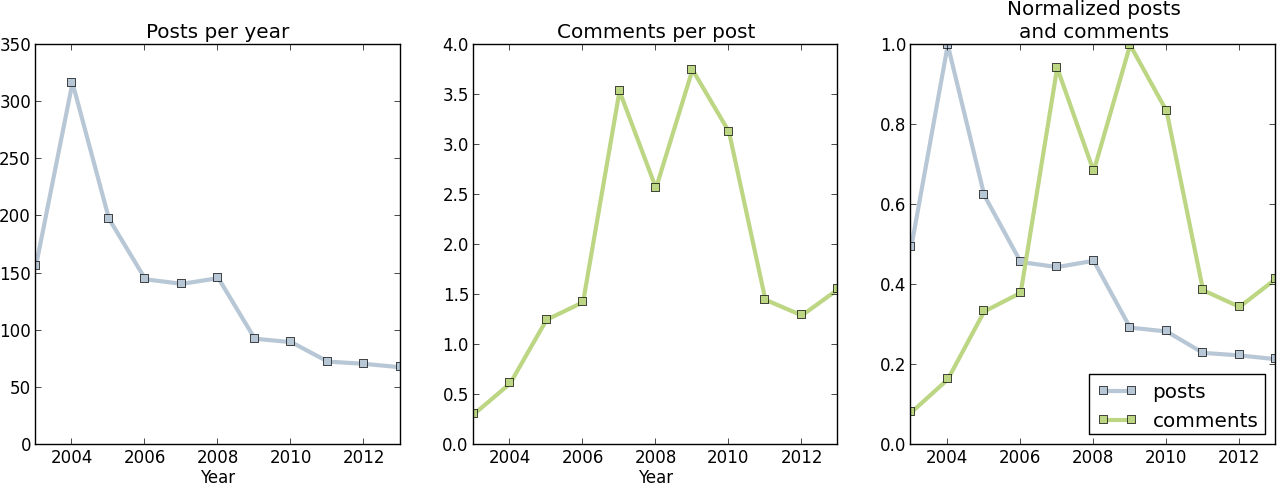
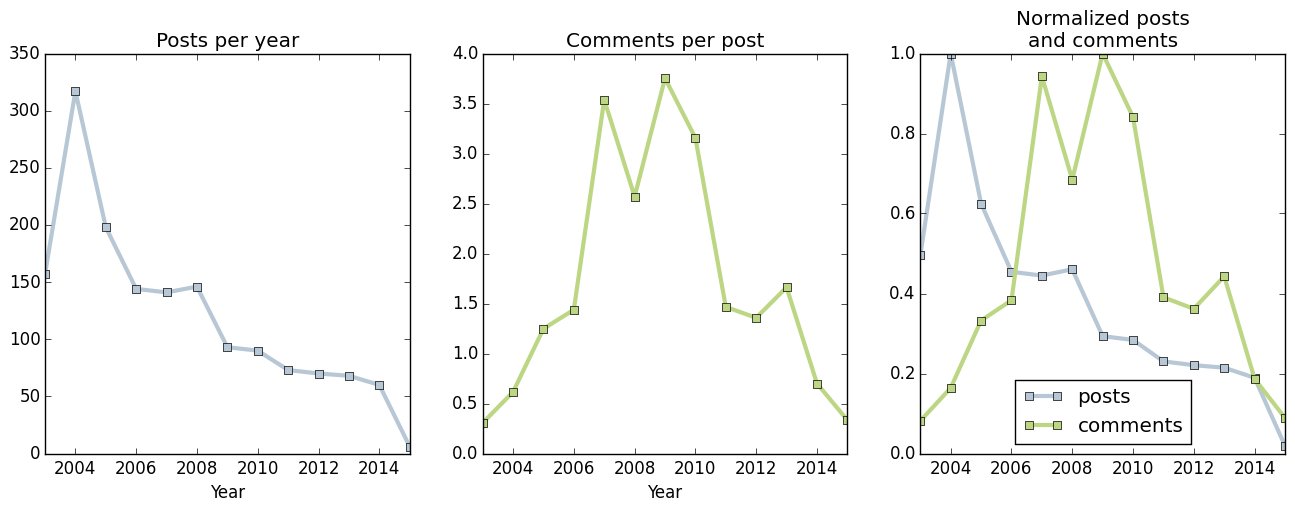
Version for newest blog post
- http://wp.me/p4u1r-Zu

diff --git a/comments-visualization/comments.py b/comments-visualization/comments.py
@@ -1,6 +1,9 @@
-'''
+#! /usr/bin/env python
+# -*- coding: utf-8 -*-
+
+"""
 Plotting comment number from a WordPress MySQL database
-'''
+"""
 
 from __future__ import division
 import optparse
@@ -59,9 +62,9 @@ if not (options.Server and options.Database and options.User and
     print
     print 'Example:'
     print 'The command gets the comments'
-    print '   * out of the database "awesomebase" on server "example.com"'
-    print '   * for user "' + name + '"'
-    print '   * with the password "' + password + '"'
+    print '\t* out of the database "awesomebase" on server "example.com"'
+    print '\t* for user "' + name + '"'
+    print '\t* with the password "' + password + '"'
     print 'and plots them with the real numbers (if matplotlib is available',\
         'otherwise it just gives out the numbers.'
     print
@@ -108,11 +111,11 @@ for y in Years:
 # background), 2 colors, soft (k-means)
 if plot:
     plt.rc('lines', linewidth=3, marker='s')
-    plt.figure(figsize=(16, 5))
+    plt.figure(figsize=[16, 5])
     plt.subplot(131)
     plt.plot(Years, Posts, color='#B8C7D5')
     plt.xlabel('Year')
-    plt.xlim([min(Years), max(Years) - 1])
+    plt.xlim([min(Years), max(Years)])
     plt.title('Posts per year')
     plt.subplot(132)
     if options.Normalized:
@@ -122,12 +125,12 @@ if plot:
         plt.plot(Years, CommentsPerPost, color='#BCD684')
         plt.title('Comments per post')
     plt.xlabel('Year')
-    plt.xlim([min(Years), max(Years) - 1])
+    plt.xlim([min(Years), max(Years)])
     plt.subplot(133)
     plt.plot(Years, NormalizedPosts, label='posts', color='#B8C7D5')
     plt.plot(Years, NormalizedComments, label='comments', color='#BCD684')
     plt.legend(loc='best')
     plt.title('Normalized posts\nand comments')
-    plt.xlim([min(Years), max(Years) - 1])
-    plt.savefig(str(options.User) + '.png')
+    plt.xlim([min(Years), max(Years)])
+    plt.savefig(str(options.User) + '.png', bbox_inches='tight')
     plt.show()

diff --git a/comments-visualization/README.md b/comments-visualization/README.md
@@ -16,4 +16,4 @@
 - run the script with the appropiate options
 - you should get an image like the one shown below, which are the numbers for [my blog](http://habi.gna.ch) (if you have [matplotlib](http://matplotlib.org) installed, otherwise you only get the raw numbers).
 
-![comments for habi.gna.ch](https://raw2.github.com/habi/python/master/comments-visualization/habi_gna_ch.png)
+![comments for habi.gna.ch](https://raw.githubusercontent.com/habi/python/master/comments-visualization/habi_gna_ch.png)
